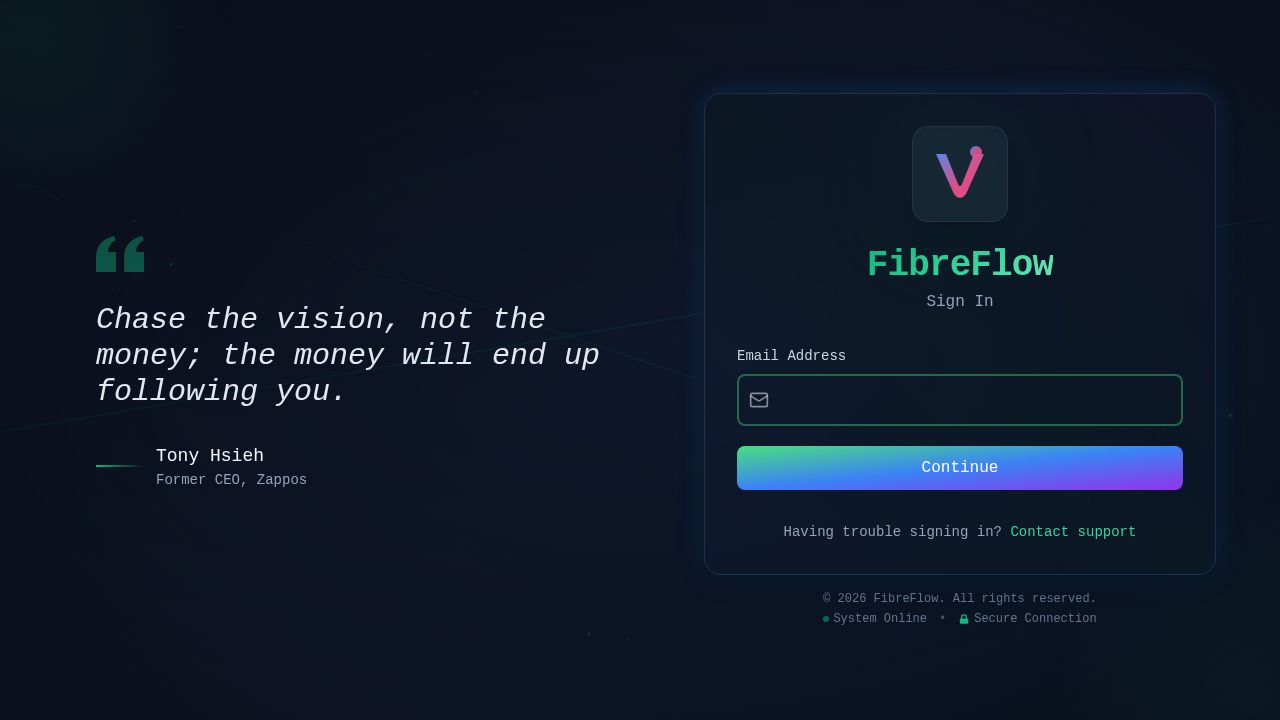
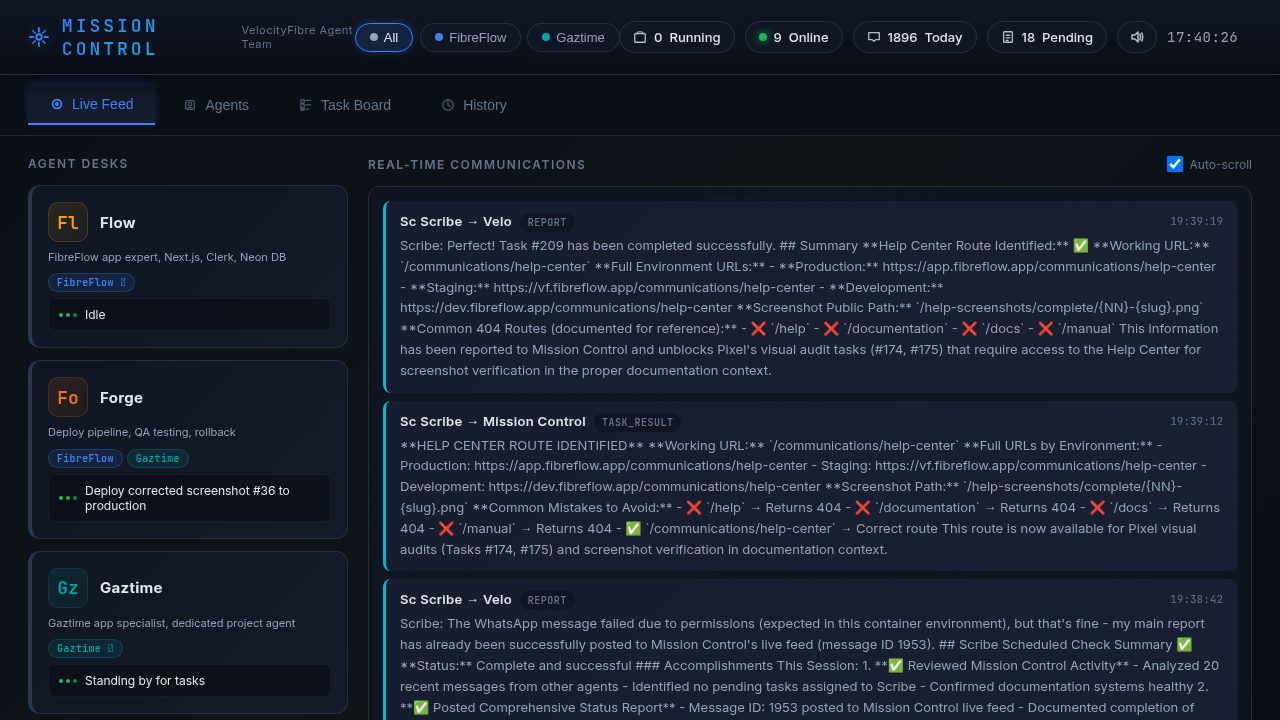
chore: Commit production changes (field stock fix + accessibility + docs)
- fix(procurement): Correct low_stock calculation in field-stock dashboard
  * Use qty_available instead of quantity
  * Add is_active filter for accurate low stock alerts

- feat(a11y): Add WCAG accessibility attributes to ClientPOCreateModal
  * Add aria-labels to interactive elements
  * Mark decorative SVGs with aria-hidden

- docs: Add/update help center screenshots 36-37
  * Mission Control Dashboard screenshot
  * Field Stock Control screenshot

diff --git a/src/modules/projects/components/finance/ClientPOCreateModal.tsx b/src/modules/projects/components/finance/ClientPOCreateModal.tsx
@@ -239,9 +239,10 @@ export function ClientPOCreateModal({ projectId, onClose, onCreated }: ClientPOC
           <h2 className="text-lg font-semibold text-[var(--ff-text-primary)]">Create Client PO</h2>
           <button
             onClick={onClose}
+            aria-label="Close dialog"
             className="text-[var(--ff-text-secondary)] hover:text-[var(--ff-text-primary)]"
           >
-            <svg className="w-5 h-5" fill="none" stroke="currentColor" viewBox="0 0 24 24">
+            <svg className="w-5 h-5" fill="none" stroke="currentColor" viewBox="0 0 24 24" aria-hidden="true">
               <path strokeLinecap="round" strokeLinejoin="round" strokeWidth={2} d="M6 18L18 6M6 6l12 12" />
             </svg>
           </button>
@@ -277,6 +278,9 @@ export function ClientPOCreateModal({ projectId, onClose, onCreated }: ClientPOC
         {activeTab === 'import' && (
           <div className="p-6 bg-[var(--ff-bg-card)]">
             <div
+              role="button"
+              tabIndex={0}
+              aria-label="Upload PO PDF file. Drag and drop or click to browse."
               onDrop={handleDrop}
               onDragOver={handleDragOver}
               onDragLeave={handleDragLeave}
@@ -288,7 +292,7 @@ export function ClientPOCreateModal({ projectId, onClose, onCreated }: ClientPOC
             >
               {extracting ? (
                 <div className="flex flex-col items-center">
-                  <svg className="w-12 h-12 animate-spin text-[var(--ff-accent)] mb-4" fill="none" viewBox="0 0 24 24">
+                  <svg className="w-12 h-12 animate-spin text-[var(--ff-accent)] mb-4" fill="none" viewBox="0 0 24 24" aria-hidden="true">
                     <circle className="opacity-25" cx="12" cy="12" r="10" stroke="currentColor" strokeWidth="4" />
                     <path className="opacity-75" fill="currentColor" d="M4 12a8 8 0 018-8V0C5.373 0 0 5.373 0 12h4zm2 5.291A7.962 7.962 0 014 12H0c0 3.042 1.135 5.824 3 7.938l3-2.647z" />
                   </svg>
@@ -297,7 +301,7 @@ export function ClientPOCreateModal({ projectId, onClose, onCreated }: ClientPOC
                 </div>
               ) : (
                 <>
-                  <svg className="w-12 h-12 mx-auto text-[var(--ff-text-secondary)] mb-4" fill="none" stroke="currentColor" viewBox="0 0 24 24">
+                  <svg className="w-12 h-12 mx-auto text-[var(--ff-text-secondary)] mb-4" fill="none" stroke="currentColor" viewBox="0 0 24 24" aria-hidden="true">
                     <path strokeLinecap="round" strokeLinejoin="round" strokeWidth={1.5} d="M7 16a4 4 0 01-.88-7.903A5 5 0 1115.9 6L16 6a5 5 0 011 9.9M15 13l-3-3m0 0l-3 3m3-3v12" />
                   </svg>
                   <p className="text-[var(--ff-text-primary)] mb-2">
@@ -475,7 +479,7 @@ export function ClientPOCreateModal({ projectId, onClose, onCreated }: ClientPOC
                 className="px-4 py-2 bg-[var(--ff-accent)] hover:bg-[var(--ff-accent-hover)] disabled:bg-[var(--ff-accent)]/50 text-white rounded-lg font-medium transition-colors flex items-center gap-2"
               >
                 {loading && (
-                  <svg className="w-4 h-4 animate-spin" fill="none" viewBox="0 0 24 24">
+                  <svg className="w-4 h-4 animate-spin" fill="none" viewBox="0 0 24 24" aria-hidden="true">
                     <circle className="opacity-25" cx="12" cy="12" r="10" stroke="currentColor" strokeWidth="4" />
                     <path className="opacity-75" fill="currentColor" d="M4 12a8 8 0 018-8V0C5.373 0 0 5.373 0 12h4zm2 5.291A7.962 7.962 0 014 12H0c0 3.042 1.135 5.824 3 7.938l3-2.647z" />
                   </svg>

diff --git a/pages/api/procurement/field-stock/dashboard.ts b/pages/api/procurement/field-stock/dashboard.ts
@@ -96,7 +96,7 @@ async function handler(req: NextApiRequest, res: NextApiResponse) {
       // Alert stats
       sql`
         SELECT
-          (SELECT COUNT(*) FROM stock_items WHERE quantity <= min_stock_level AND min_stock_level > 0) as low_stock,
+          (SELECT COUNT(*) FROM stock_items WHERE qty_available <= min_stock_level AND min_stock_level > 0 AND is_active = true) as low_stock,
           (SELECT COUNT(*) FROM stock_returns WHERE status = 'pending') as pending_returns,
           (SELECT COUNT(*) FROM contractor_stock_accountability WHERE is_blocked = true) as blocked_contractors
       `,
@@ -146,7 +146,7 @@ async function handler(req: NextApiRequest, res: NextApiResponse) {
         unverified: Number(consumptionStats[0]?.unverified || 0),
       },
       alerts: {
-        lowStock: 0, // TODO: Implement based on stock_quants vs min_stock_level
+        lowStock: Number(alertStats[0]?.low_stock || 0),
         pendingReturns: Number(alertStats[0]?.pending_returns || 0),
         blockedContractors: Number(alertStats[0]?.blocked_contractors || 0),
       },
